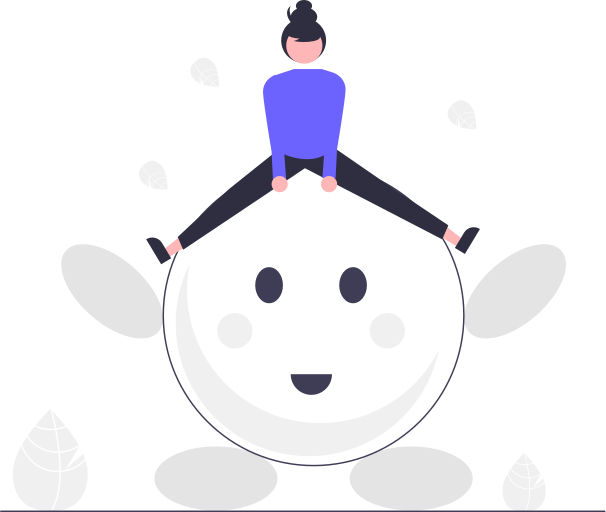
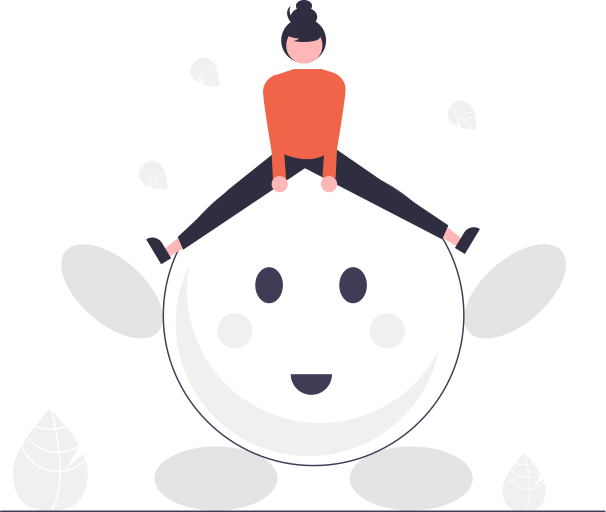
asset for orange

Changed region(s): [[0.4158, 0.125, 0.5941, 0.3438]]

diff --git a/awa-chat-flutter/awachat/lib/application_theme.dart b/awa-chat-flutter/awachat/lib/application_theme.dart
@@ -2,11 +2,12 @@ import 'package:flutter/material.dart';
 
 // ===== ===== =====
 // Colors
-const primary = Color(0xff6f61e8);
-const secondary = Color(0xfff5f5f7);
+const primary = Color(0xfff06449);
+const secondary = Color(0xffF8F7F9);
 
-const black = Color(0xff1f1c38);
-const grey = Color(0xff9e9cab);
+const black = Color(0xff333138);
+const grey = Color(0xff757780);
+const green = Color(0xff6DA34D);
 
 // ===== ===== =====
 // Themes
@@ -21,7 +22,7 @@ final applicationTheme = ThemeData(
     secondary: secondary,
     onSecondary: black,
     // active status
-    tertiary: Colors.green,
+    tertiary: green,
     // error
     error: Colors.white,
     onError: Colors.redAccent.shade100,

diff --git a/awa-chat-flutter/awachat/lib/widgets/error.dart b/awa-chat-flutter/awachat/lib/widgets/error.dart
@@ -15,7 +15,7 @@ class ErrorPage extends StatelessWidget {
             child: Column(
               mainAxisAlignment: MainAxisAlignment.center,
               children: <Widget>[
-                Image.asset('assets/images/undraw_warning_cyit.png'),
+                Image.asset('assets/images/undraw_notify_re_65on'),
                 const Divider(height: 48),
                 const Text("Oups ! Il y a quelque chose d'anormal.",
                     textAlign: TextAlign.center),

diff --git a/awa-chat-flutter/awachat/lib/main.dart b/awa-chat-flutter/awachat/lib/main.dart
@@ -66,6 +66,7 @@ class _MyAppState extends State<MyApp> {
       state = 'main';
     }
     return MaterialApp(
+      debugShowCheckedModeBanner: false,
       theme: applicationTheme,
       home: Builder(
         builder: (BuildContext context) {
